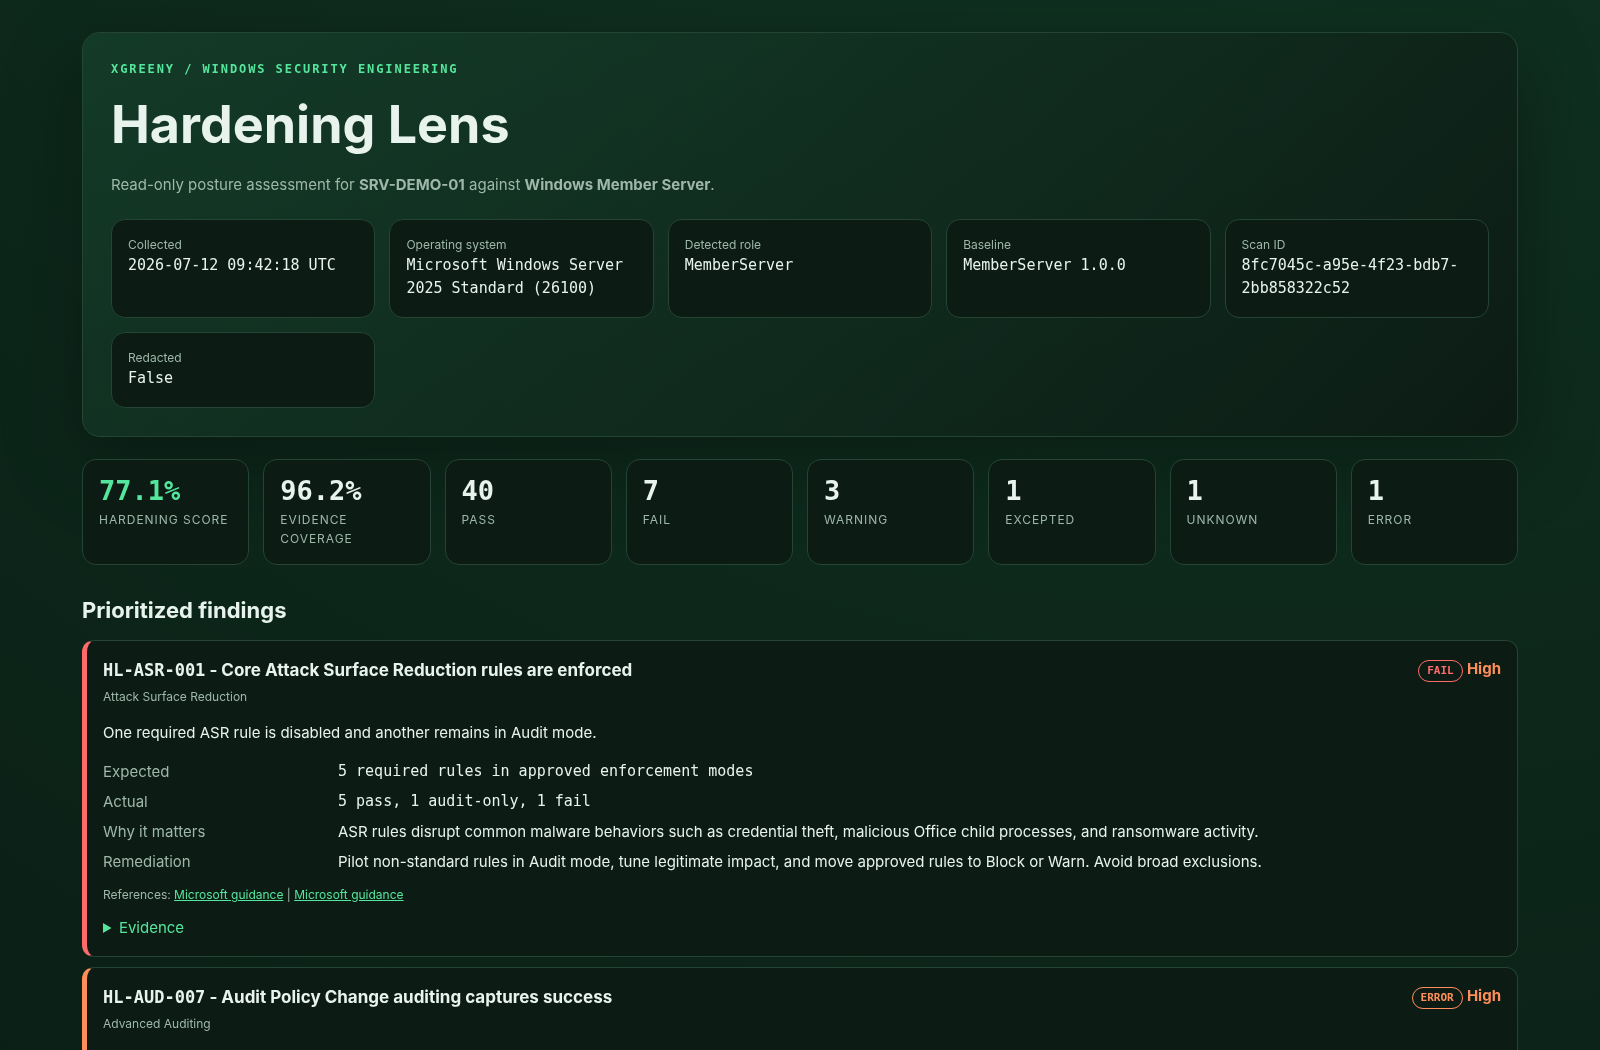
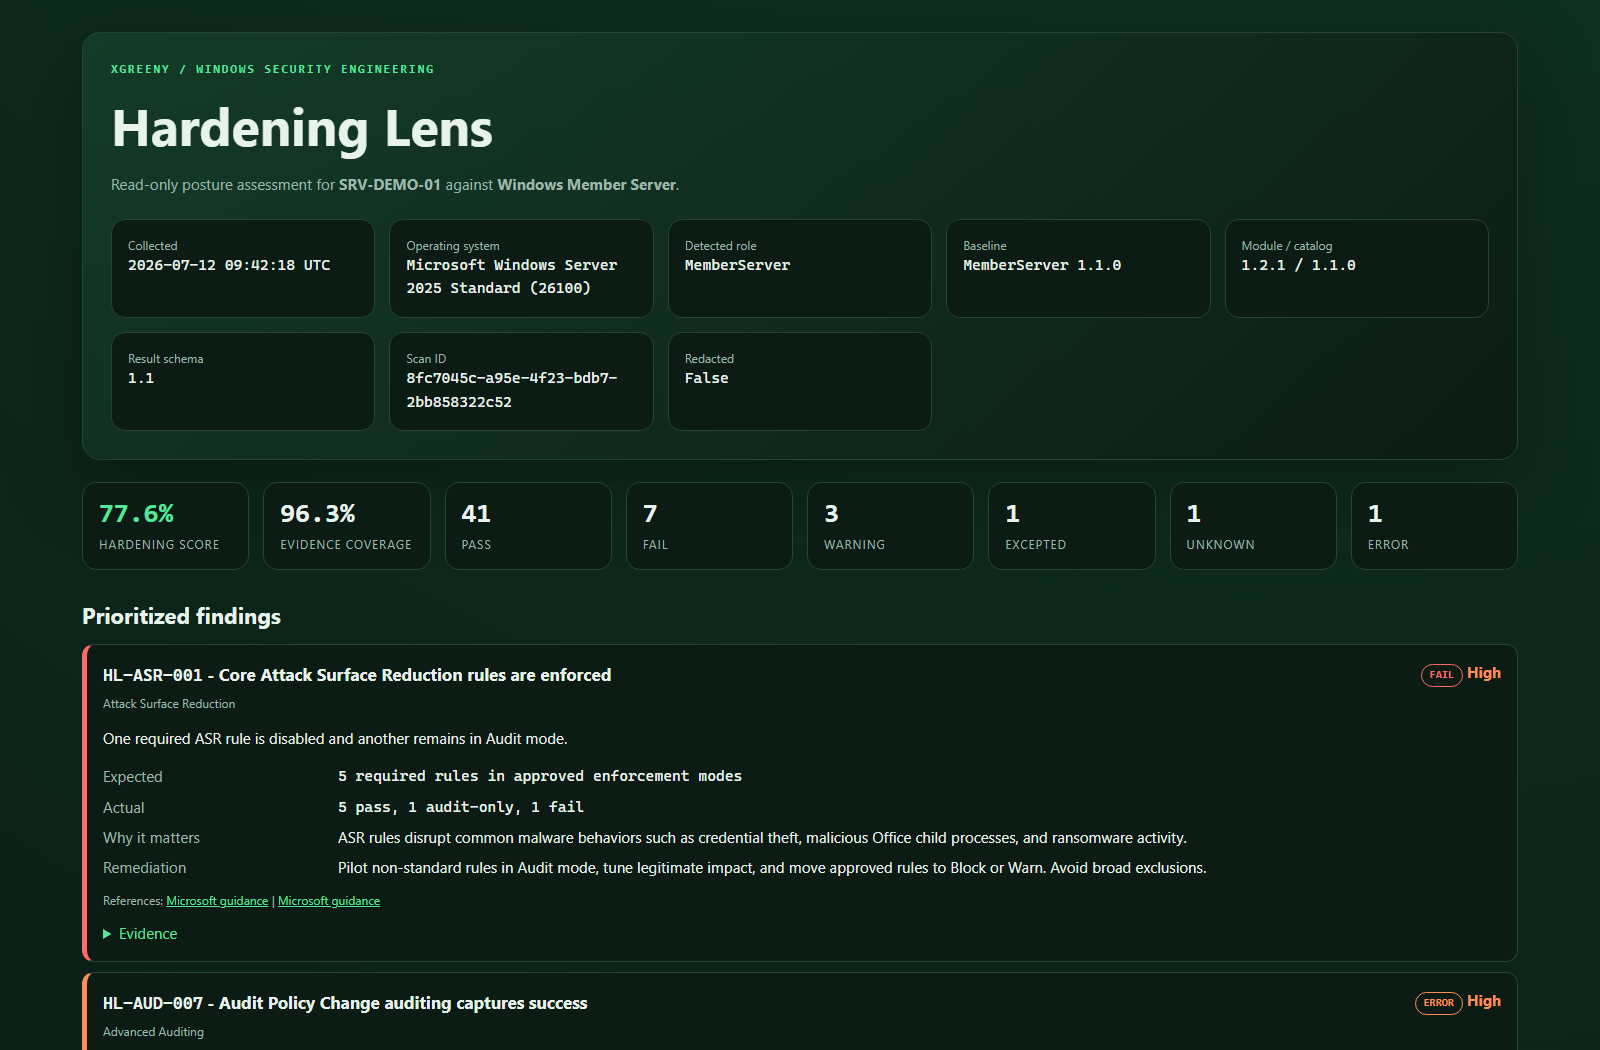
docs: align README with 1.2.1 and the PowerShell Gallery
- Lead installation and quick start with the PowerShell Gallery and add
  a gallery badge; keep the clone-based CLI wrapper as alternative.
- Surface the aggregated fleet HTML report in capabilities and the
  fleet section, and document locale-independent error classification.
- Refresh the quality-gate list (demo-asset verification, full-baseline
  live smoke test, gallery publication) and the drift sample delta.
- Regenerate the sample report screenshot from the current example.

diff --git a/README.md b/README.md
@@ -9,6 +9,7 @@
   <img alt="Windows" src="https://img.shields.io/badge/platform-Windows-0078D4?logo=windows&logoColor=white">
   <a href="LICENSE"><img alt="MIT License" src="https://img.shields.io/badge/license-MIT-55e69d"></a>
   <a href="docs/CONTROL_REFERENCE.md"><img alt="64 controls" src="https://img.shields.io/badge/controls-64-55e69d"></a>
+  <a href="https://www.powershellgallery.com/packages/HardeningLens"><img alt="PowerShell Gallery" src="https://img.shields.io/powershellgallery/v/HardeningLens?label=PSGallery&color=55e69d"></a>
 </p>
 
 **Hardening Lens turns effective Windows security configuration into evidence you can review, diff, and govern.** It evaluates a local device against a role-aware baseline, explains every finding, applies only valid time-bounded exceptions, and exports a self-contained report without changing Windows configuration.
@@ -40,18 +41,28 @@ Hardening Lens makes those distinctions explicit in a stable result schema.
 | **64 controls** | Curated checks for identity, credentials, network protection, remote administration, session security, Defender, ASR, VBS, audit policy, logging, BitLocker, Secure Boot, and PowerShell |
 | **Four role baselines** | `Workstation`, `MemberServer`, `DomainController`, `AVDSessionHost` |
 | **Read-only collection** | Registry, CIM, Windows APIs, and native Microsoft cmdlets; no remediation mode |
+| **Locale-independent collection** | Failures classified through exception types and error codes rather than English message text; verified against localized Windows systems |
 | **Evidence-first results** | Expected state, actual state, status, message, rationale, remediation, references, and raw evidence |
 | **Governed exceptions** | Owner, rationale, ticket, target scope, baseline scope, approval, expiry, and compensating controls |
 | **Configuration drift** | Field-level before/after state, baseline and catalog provenance, coverage delta, findings, and control-set changes |
 | **Portable reports** | Self-contained HTML plus structured JSON and CSV |
-| **Fleet support** | Pipeline-capable module command with complete per-host outcomes, run manifests, machine-readable failures, and summary CSV |
+| **Fleet support** | Pipeline-capable module command with complete per-host outcomes, run manifests, machine-readable failures, summary CSV, and one aggregated fleet HTML report |
 | **Automation policy** | Deterministic gates for findings, score, evidence coverage, partial collection, and expired exceptions |
 | **Reproducible provenance** | SHA-256 fingerprints for catalog, effective baseline, and exception register plus probe capabilities and timings |
-| **Quality contract** | JSON Schemas, Pester, PSScriptAnalyzer, generated control documentation, dual-edition CI, and a scheduled safe live-collection smoke test on Windows |
+| **Quality contract** | JSON Schemas, Pester, PSScriptAnalyzer, generated control documentation and demo assets, dual-edition CI, a scheduled full-baseline live smoke test on Windows, and PowerShell Gallery publishing |
 
 ## Quick start
 
-Live collection requires Windows. Run from an elevated Windows PowerShell 5.1 or PowerShell 7 session:
+Live collection requires Windows. Install from the [PowerShell Gallery](https://www.powershellgallery.com/packages/HardeningLens) and run from an elevated Windows PowerShell 5.1 or PowerShell 7 session:
+
+```powershell
+Install-PSResource HardeningLens    # PowerShellGet: Install-Module HardeningLens
+
+Invoke-HardeningLens -Baseline Auto |
+    Export-HardeningLensReport -OutputDirectory .\out
+```
+
+Alternatively, clone the repository and use the CLI wrapper, which runs the assessment, writes HTML/JSON/CSV, and returns an automation-friendly exit code:
 
 ```powershell
 git clone https://github.com/xGreeny/hardening-lens.git
@@ -61,8 +72,6 @@ Set-Location .\hardening-lens
     -Baseline Auto `
     -OutputDirectory .\out
 ```
-
-The wrapper runs the assessment, writes HTML/JSON/CSV, and returns an automation-friendly exit code.
 
 ```text
 HARDENING LENS // SRV-DEMO-01
@@ -81,7 +90,8 @@ The committed [sample result](examples/sample-result.json), [HTML report](exampl
 ## Module usage
 
 ```powershell
-Import-Module .\src\HardeningLens\HardeningLens.psd1 -Force
+Import-Module HardeningLens
+# from a clone: Import-Module .\src\HardeningLens\HardeningLens.psd1 -Force
 
 $result = Invoke-HardeningLens `
     -Baseline MemberServer `
@@ -227,7 +237,7 @@ Compare-HardeningLensResult `
 ```
 
 ```text
-Score delta       -2.1 points
+Score delta       -2.0 points
 New findings       2
 Resolved           1
 Changed            1
@@ -264,7 +274,16 @@ Invoke-HardeningLensFleet `
     -ThrottleLimit 8
 ```
 
-The command transfers the module to a temporary remote path, evaluates each host locally, and removes PowerShell remoting metadata. It writes exactly one success or failure outcome per requested host into a fully staged run directory containing host JSON, summary CSV, consolidated result, manifest, and a final commit marker. `-Force` swaps a complete committed run only after its replacement is ready, so a failed replacement leaves the prior run intact. The module is not installed remotely. The legacy script remains a compatibility wrapper. See the [operations guide](docs/OPERATIONS.md).
+The command transfers the module to a temporary remote path, evaluates each host locally, and removes PowerShell remoting metadata. It writes exactly one success or failure outcome per requested host into a fully staged run directory containing host JSON, summary CSV, consolidated result, manifest, and a final commit marker. `-Force` swaps a complete committed run only after its replacement is ready, so a failed replacement leaves the prior run intact. The module is not installed remotely. The legacy script remains a compatibility wrapper.
+
+Pipe the run into `Export-HardeningLensFleetReport` for one aggregated, self-contained HTML report with per-host scores, failed collections, and the controls affecting the most hosts:
+
+```powershell
+Invoke-HardeningLensFleet -ComputerName SRV-APP-01, SRV-FILE-01 -Baseline MemberServer -OutputDirectory .\fleet-results |
+    Export-HardeningLensFleetReport -OutputDirectory .\fleet-results
+```
+
+See the [operations guide](docs/OPERATIONS.md).
 
 ## Security properties
 
@@ -275,7 +294,7 @@ The command transfers the module to a temporary remote path, evaluates each host
 - Reports fetch no external scripts, styles, fonts, or images.
 - Redaction replaces detected host, domain, and current-user identifiers.
 - Approved exceptions require expiry and compensating controls.
-- Release archives include SHA-256 checksums.
+- Releases are published to the PowerShell Gallery and as archives with SHA-256 checksums.
 
 Hardening Lens output is security-sensitive. Redaction is targeted rather than universal; review reports before sharing. See the [security model](docs/SECURITY_MODEL.md) and [security policy](SECURITY.md).
 
@@ -289,11 +308,14 @@ Hardening Lens output is security-sensitive. Redaction is targeted rather than u
 
 Catalog, baseline, exception, report, and drift operations are cross-platform. Unsupported or non-authoritative providers produce explicit evidence gaps.
 
-Install the versioned module for the current user:
+Install the module for the current user:
 
 ```powershell
+Install-PSResource HardeningLens              # PSResourceGet
+Install-Module HardeningLens -Scope CurrentUser   # PowerShellGet
+
+# from a clone, without the PowerShell Gallery:
 .\scripts\Install-HardeningLens.ps1 -Scope CurrentUser
-Import-Module HardeningLens
 ```
 
 ## Quality gate
@@ -303,11 +325,12 @@ The repository contract is enforced through:
 - Pester tests for catalog, baselines, scoring, value evaluation, exceptions, redaction, reports, and drift;
 - PSScriptAnalyzer on module, scripts, CLI, build, and tests;
 - JSON Schema validation and cross-file reference checks;
-- deterministic generation of the control reference;
+- deterministic generation of the control reference and demo assets;
 - Windows PowerShell 5.1 and PowerShell 7 CI;
-- a scheduled, tagged live-collection smoke test on a Windows runner;
+- a scheduled full-baseline live smoke test on a Windows runner that forbids collection errors in robust probe classes;
 - tag-to-manifest version verification;
-- versioned release archive and checksum generation.
+- versioned release archive and checksum generation;
+- PowerShell Gallery publication for tagged releases.
 
 ```powershell
 Install-Module Pester -MinimumVersion 5.6.1 -Scope CurrentUser